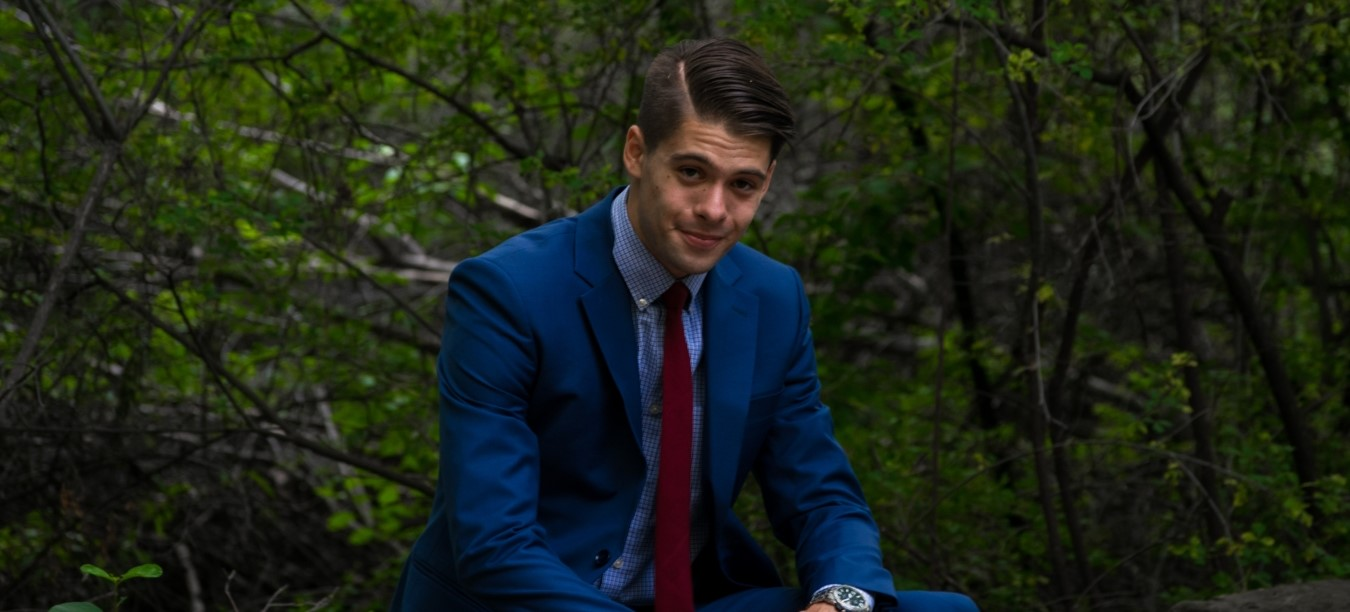
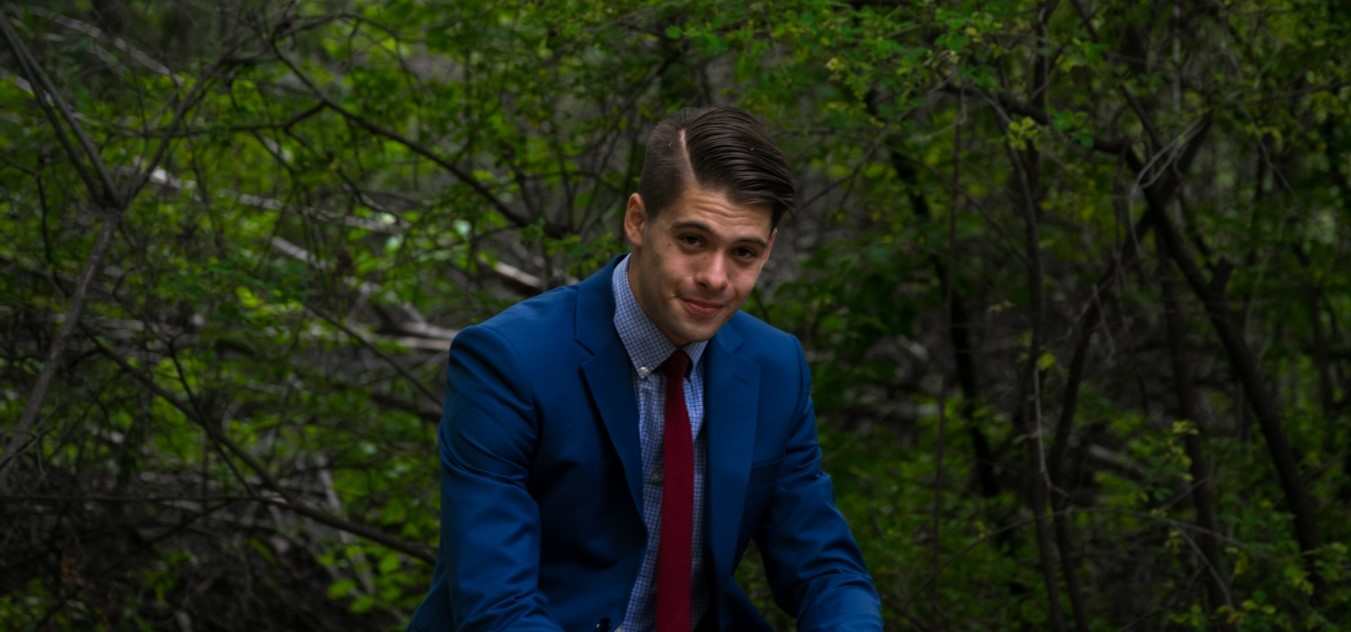
added landing page image

diff --git a/todo.html b/todo.html
@@ -1,26 +1,45 @@
 <!DOCTYPE html>
 <html>
-<head>
-	<title>Success List</title>
-	<link rel="stylesheet" type="text/css" href="assets/css/todo.css">
-	<link href="https://fonts.googleapis.com/css?family=Roboto" rel="stylesheet">
-	<link rel="stylesheet" type="text/css" href="https://maxcdn.bootstrapcdn.com/font-awesome/4.7.0/css/font-awesome.min.css">
-	<script type="text/javascript" src="assets/js/lib/jquery-3.1.1.min.js"></script>
-</head>
-<body style ="background-size: 100%">
+	<head>
+		<title>Success List</title>
+		<!-- Bootstrap Core CSS -->
+	    <link href="assets/css/lib/bootstrap/css/bootstrap.min.css" rel="stylesheet" type="text/css">
+	    <!-- Theme CSS -->
+	    <link href="assets/css/lib/clean-blog.min.css" rel="stylesheet" type="text/css">
+		<link rel="stylesheet" type="text/css" href="assets/css/todo.css">
+		<link href="https://fonts.googleapis.com/css?family=Roboto" rel="stylesheet">
+		<link rel="stylesheet" type="text/css" href="https://maxcdn.bootstrapcdn.com/font-awesome/4.7.0/css/font-awesome.min.css">
+		<!-- Custom Fonts -->
+	    <link href="assets/css/lib/font-awesome/css/font-awesome.min.css" rel="stylesheet" type="text/css">
+	    <link href='https://fonts.googleapis.com/css?family=Lora:400,700,400italic,700italic' rel='stylesheet' type='text/css'>
+	    <link href='https://fonts.googleapis.com/css?family=Open+Sans:300italic,400italic,600italic,700italic,800italic,400,300,600,700,800' rel='stylesheet' type='text/css'>
+		<script type="text/javascript" src="assets/js/lib/jquery-3.1.1.min.js"></script>
+	</head>
+	<body style ="background-size: 100%">
+	    <!-- Navigation -->
+	   
+	    <!-- <ul class="todoMenu">
+	        <li>
+	            <a href="index.html">Home</a>
+	        </li>
+	        <li>
+	            <a target="_blank" href="michael_boyd_resume.pdf">Resume</a>
+	        </li>
+	    </ul> -->
+	           
 
-<div id=container>
-	<h1>To-Do List <i class="fa fa-pencil-square-o" aria-hidden="true"></i></h1>
-	<input type="text" placeholder="What do you need to accomplish today?">
+		<div id=container>
+			<h1>To-Do List <i class="fa fa-pencil-square-o" aria-hidden="true"></i></h1>
+			<input type="text" placeholder="What do you need to accomplish today?">
 
-	<ul>
-		<li><span><i class="fa fa-trash"></i></span> Example 1</li>
-		<li><span><i class="fa fa-trash"></i></span> Example 2</li>
-		<li><span><i class="fa fa-trash"></i></span> Example 3</li>
-	</ul>
-</div>
+			<ul>
+				<li><span><i class="fa fa-trash"></i></span> Example 1</li>
+				<li><span><i class="fa fa-trash"></i></span> Example 2</li>
+				<li><span><i class="fa fa-trash"></i></span> Example 3</li>
+			</ul>
+		</div>
 
-</div>
-<script type="text/javascript" src="assets/js/todo.js"></script>
-</body>
+		</div>
+		<script type="text/javascript" src="assets/js/todo.js"></script>
+	</body>
 </html>

diff --git a/index.html b/index.html
@@ -55,22 +55,12 @@
             <!-- Collect the nav links, forms, and other content for toggling -->
             <div class="collapse navbar-collapse" id="bs-example-navbar-collapse-1">
                 <ul class="nav navbar-nav navbar-right">
-                    <li>
+                   <!--  <li>
                         <a href="index.html">Home</a>
-                    </li>
-                     <!-- <li>
-                        <a href="projects.html">Projects</a>    
                     </li> -->
                     <li>
                         <a target="_blank" href="assets/michael_boyd_resume.pdf">Resume</a>
                     </li>
-                    <!-- <li>
-                        <a href="post.html">Sample Post</a>
-                    </li> -->
-                            
-                    <!-- <li>
-                        <a href="contact.html">Contact</a>
-                    </li> -->
 
                 </ul>
             </div>
@@ -81,7 +71,7 @@
 
     <!-- Page Header -->
     <!-- Set your background image for this header on the line below. -->
-    <header class="intro-header" style="background-image: url('assets/media/landing-crop.jpg')">
+    <header class="intro-header" style="background-image: url('assets/media/landing.jpg')">
         <div class="container">
             <div class="row">
                 <div class="col-lg-8 col-lg-offset-2 col-md-10 col-md-offset-1">
@@ -110,7 +100,7 @@
     <h2>Javascript Projects</h2>
         <div class="row">
             <div class="col-lg-6 project">
-                <a target="_blank" href="color-game/color-game.html" class="container-project">
+                <a target="_blank" href="color-game.html" class="container-project">
                 <h3 class="title-project">RGB Color Guessing Game</h3>
                 <video autoplay="" loop="">
                     <source src="assets/media/color_guesser_web.mp4" type="video/mp4">

diff --git a/color-game.html b/color-game.html
@@ -58,9 +58,6 @@
                         <a href="index.html">Home</a>
                     </li>
                     <li>
-                        <a href="projects.html">Projects</a>
-                    </li>
-                    <li>
                         <a target="_blank" href="michael_boyd_resume.pdf">Resume</a>
                     </li>
                 </ul>
@@ -95,7 +92,7 @@
 		<div class="square"></div>
 		<div class="square"></div>
 	</div>
-	<script type="text/javascript" src="assets/js/color-game/colorGame.js"></script>
+	<script type="text/javascript" src="assets/js/colorGame.js"></script>
 <!-- jQuery -->
     <script src="assets/js/lib/jquery/jquery.min.js"></script>
 

diff --git a/assets/css/todo.css b/assets/css/todo.css
@@ -4,7 +4,7 @@ body {
   	background-size: cover;
   	background-size: 100%;
  }
-ul {
+ ul {
 	list-style: none;
 	margin: 0;
 	padding: 0;
@@ -29,14 +29,14 @@ h1 {
 
 
 
-li {
+.container li {
 	background: #fff;
 	height: 40px;
 	line-height: 40px;
 	color: #666;
 }
 
-li:nth-child(2n){
+.container li:nth-child(2n){
 	background: #f7f7f7;
 }
 
@@ -83,4 +83,8 @@ input:focus{
 .completed {
 	color: gray;
 	text-decoration: line-through;
+}
+
+.todoMenu li {
+	color: #fff;
 }

diff --git a/assets/css/main.css b/assets/css/main.css
@@ -90,3 +90,7 @@ h2 {
 .link{
     cursor: pointer;
 }
+
+.site-heading {
+    margin-top: 150px;
+}
